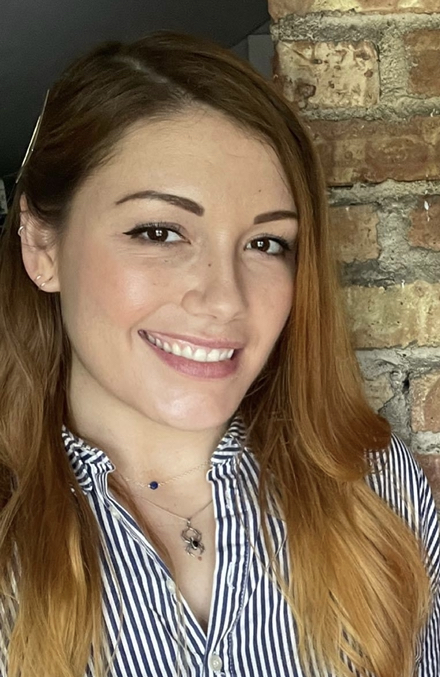
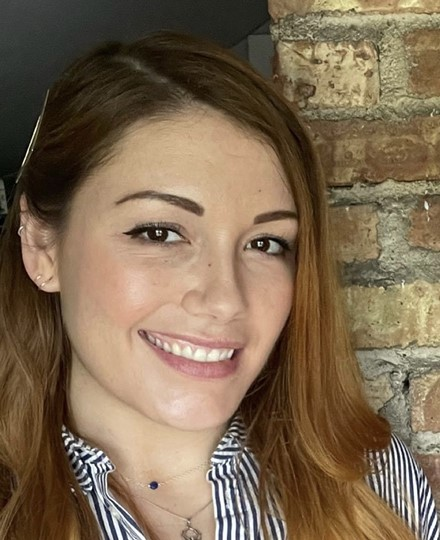
resized images in about page

diff --git a/public/assets/css/main.css b/public/assets/css/main.css
@@ -3588,9 +3588,17 @@ input, select, textarea {
 
 	/*about page*/
 
-	.bioImage {
+	.aboutHero {
+		text-align: center;
 		width: 80%;
-		height: 500px;
+		margin: 5% auto;
+		border-radius: .5%;
+	}
+
+	.bioImage {
+		width: 73%;
+		height: 300px;
+		
 	}
 
 	.bioH3 {
